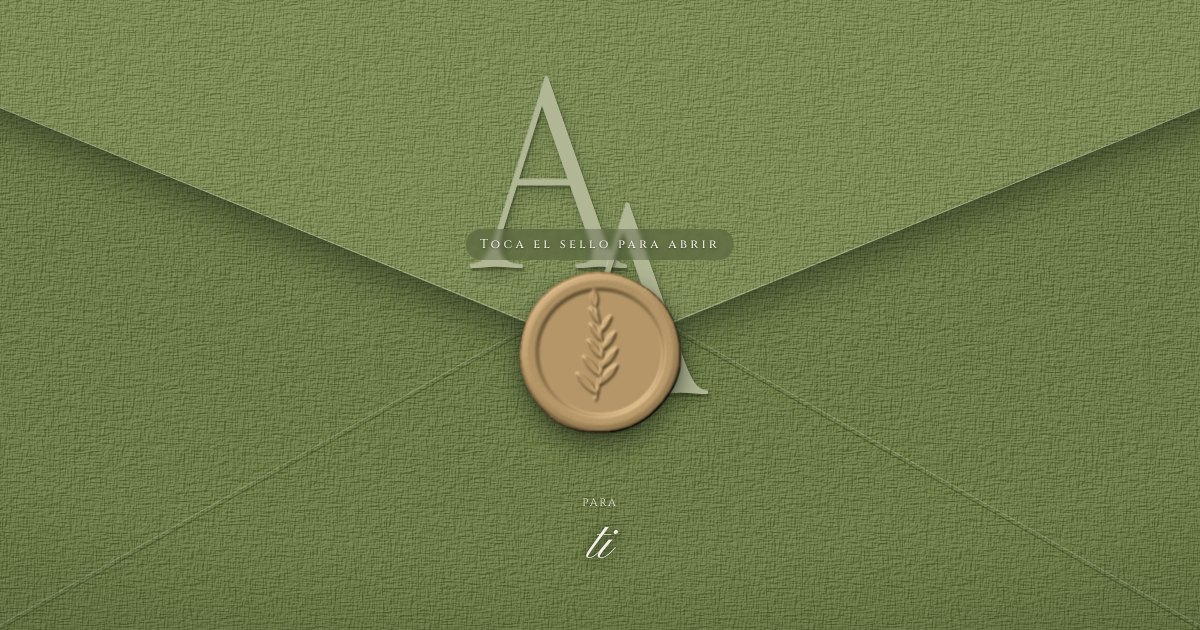
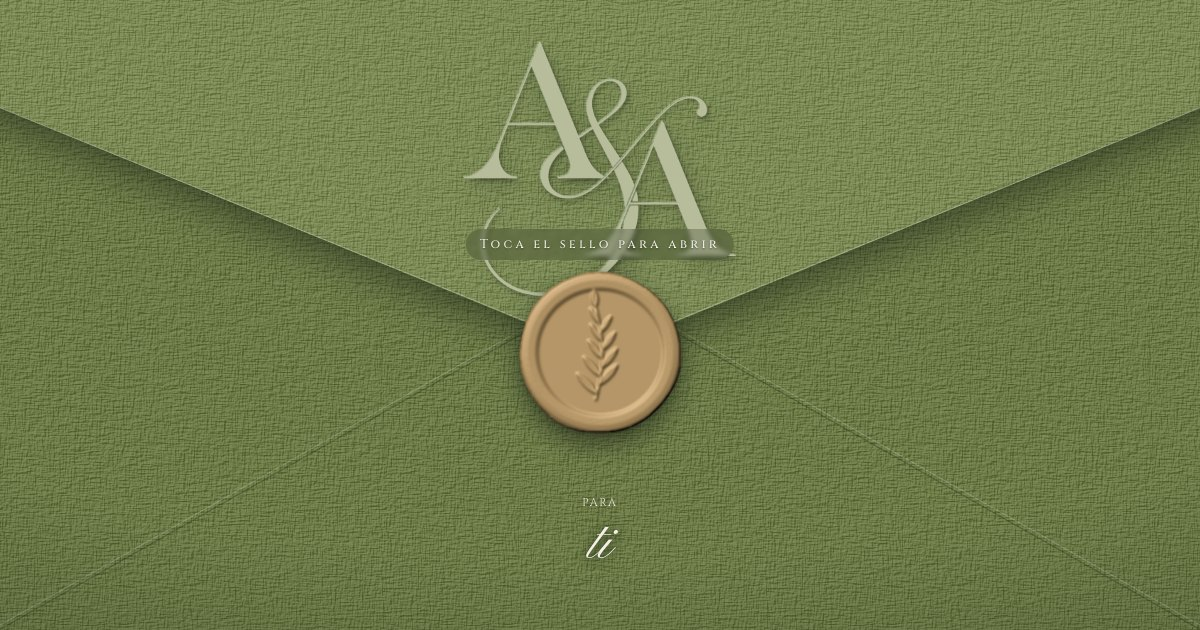
Invitación Ángeles y Alejandro: monograma A&A propio, novios de la referencia, itinerario vertical con dibujos (18:00–02:00) y regalos con lista de novios

diff --git a/public/inv/angeles-y-alejandro.html b/public/inv/angeles-y-alejandro.html
@@ -270,6 +270,7 @@
   .fc-fila span{font-family:var(--grabado);font-size:clamp(11px,3.2vw,14px);letter-spacing:.14em;line-height:1.35;padding:7px 0;border-top:.75px solid currentColor;border-bottom:.75px solid currentColor;opacity:.9}
   .fc-fila b{font-family:var(--grabado);font-weight:400;font-size:clamp(52px,14vw,68px);line-height:1;font-variant-numeric:lining-nums}
   .fc-novios{width:150px;height:150px;margin:4px 0 2px}
+  .fc-novios-img{width:min(190px,52vw);height:auto;margin:6px 0 4px;opacity:.92}
   .fc-que{letter-spacing:.2em;font-size:13px}
   .fc-lugar{margin:2px 0 8px;font-family:var(--palo);font-size:13px;letter-spacing:.1em}
   .fc-prepara{width:min(440px,96%);margin-top:-40px;padding-bottom:34px;z-index:3}
@@ -308,6 +309,27 @@
   #tela{position:fixed;inset:0;z-index:0;pointer-events:none;background:#f3f1ec url(/inv/texturas/tela.jpg) center/cover no-repeat}
   /* papel moteado tipo piedra para las tarjetas greige */
   .tarjeta.greige,.fc{background-color:#d8d2c3;background-image:url(/inv/texturas/papel.jpg)!important;background-size:512px 512px}
+</style>
+<style>
+  .monograma-sobre.mono-img{display:block;width:min(52vw,280px);height:auto;aspect-ratio:1.068;top:6%;font-size:16px;
+    filter:drop-shadow(-1px -1px 0 rgba(255,255,255,.3)) drop-shadow(2px 3px 2px rgba(25,32,16,.42)) drop-shadow(5px 9px 12px rgba(25,32,16,.25))}
+  .mono-img i,.mono-pie i{display:block;width:100%;height:100%;-webkit-mask:url(/inv/angeles-y-alejandro/monograma.png) center/contain no-repeat;mask:url(/inv/angeles-y-alejandro/monograma.png) center/contain no-repeat}
+  .mono-img i{background:color-mix(in srgb,var(--salvia-2) 50%,#f3efe2 50%)}
+  .mono-pie{width:150px;aspect-ratio:1.068;margin:0 auto}
+  .mono-pie i{background:var(--salvia-osc)}
+</style>
+<style>
+  .itin-tarjeta{padding:54px 18px 46px;display:flex;flex-direction:column;align-items:center;gap:26px}
+  .itin-lista{list-style:none;margin:0;padding:0;width:100%;display:flex;flex-direction:column;gap:26px;position:relative}
+  .itin-lista::before{content:"";position:absolute;left:calc(46% + 8px);top:14px;bottom:30px;width:1px;background:color-mix(in srgb,var(--salvia-osc) 55%,transparent)}
+  .itin-lista li{display:grid;grid-template-columns:46% 17px 1fr;align-items:center;column-gap:12px;text-align:left}
+  .itin-lista img{width:100%;max-width:170px;max-height:112px;object-fit:contain;justify-self:end}
+  .itin-punto{width:7px;height:7px;border-radius:50%;background:var(--salvia-osc);justify-self:center;position:relative;z-index:1}
+  .itin-lista time{display:block;font-family:"Cormorant Garamond",serif;font-weight:600;font-size:clamp(24px,6.6vw,30px);line-height:1.05;color:var(--salvia-osc);font-variant-numeric:lining-nums}
+  .itin-lista span{display:block;font-family:var(--grabado);font-size:clamp(11px,3.1vw,13.5px);letter-spacing:.16em;text-transform:uppercase;line-height:1.4;margin-top:3px}
+  .anima-itin .itin-lista li{opacity:0;transform:translateY(16px);transition:opacity .8s ease calc(var(--i) * .18s),transform .8s cubic-bezier(.2,.7,.2,1) calc(var(--i) * .18s)}
+  .anima-itin.visto .itin-lista li{opacity:1;transform:none}
+  @media (prefers-reduced-motion:reduce){.anima-itin .itin-lista li{opacity:1;transform:none}}
 </style>
 </head><body class="cerrada">
 <script>document.documentElement.classList.add("cerrada");</script>
@@ -459,7 +481,7 @@
   <div class="solapa-sombra"><div class="solapa" id="solapa"></div>
     <svg class="solapa-borde" viewBox="0 0 100 100" preserveAspectRatio="none" aria-hidden="true"><path d="M0 .2 L50 99.6 L100 .2" fill="none" stroke="rgba(255,255,255,.28)" stroke-width="1" vector-effect="non-scaling-stroke"/></svg>
   </div>
-  <div class="monograma-sobre" aria-hidden="true"><span class="d" id="mono-1">A</span><span class="c" id="mono-2">A</span></div>
+  <div class="monograma-sobre mono-img" aria-hidden="true"><i></i></div>
   <div class="toca">Toca el sello para abrir</div>
   <button class="sello-btn" id="abrir" aria-label="Abrir la invitación"><img class="sello-img" data-sello="crema" alt=""></button>
   <div class="para-sobre"><div class="cap">Para</div><b data-para>&nbsp;</b><div class="cap" id="para-con-sobre" hidden></div></div>
@@ -499,8 +521,8 @@
       <span class="sello-pega"><img class="sello-img" data-sello="crema" alt=""></span>
       <h2 class="titulo fc-titulo">Celebra con nosotros</h2>
       <svg class="fc-mes" viewBox="0 0 220 56" aria-hidden="true"><path id="fc-arco" d="M40 52 Q110 8 180 52" fill="none"/><text><textPath href="#fc-arco" startOffset="50%" text-anchor="middle">ENERO</textPath></text></svg>
-      <div class="fc-fila"><span>SÁBADO</span><b>16</b><span id="fc-hora">HORA POR<br>CONFIRMAR</span></div>
-      <svg class="icono-linea fc-novios" aria-hidden="true"><use href="#i-novios"/></svg>
+      <div class="fc-fila"><span>SÁBADO</span><b>16</b><span id="fc-hora">6:00 P.M.</span></div>
+      <img class="fc-novios-img" src="/inv/angeles-y-alejandro/novios.png" alt="" aria-hidden="true">
       <p class="cap fc-que">Ceremonia religiosa &amp; recepción</p>
       <p class="fc-lugar">Capilla Santa Cruz</p>
       <a class="boton" target="_blank" rel="noopener" href="https://www.google.com/maps/search/?api=1&amp;query=Capilla%20Santa%20Cruz%2C%20La%20Capilla%20115%2C%20Pudahuel"><svg aria-hidden="true"><use href="#i-ubicacion"/></svg>Ver mapa</a>
@@ -537,6 +559,20 @@
     <svg class="decor" data-ramo="calas" data-semilla="12" style="left:-34px;bottom:-26px;width:min(130px,30vw);height:250px" aria-hidden="true"></svg>
   </section>
 
+  <section class="itin-v" aria-labelledby="t-itin-v">
+    <article class="tarjeta crema itin-tarjeta revela">
+      <span class="filete" aria-hidden="true"></span>
+      <h2 class="titulo" id="t-itin-v">Itinerario</h2>
+      <ol class="itin-lista">
+        <li style="--i:0"><img src="/inv/angeles-y-alejandro/it-ceremonia.png" alt="" aria-hidden="true"><i class="itin-punto"></i><div><time>18:00</time><span>Ceremonia</span></div></li>
+        <li style="--i:1"><img src="/inv/angeles-y-alejandro/it-coctel.png" alt="" aria-hidden="true"><i class="itin-punto"></i><div><time>19:00</time><span>Cóctel de bienvenida</span></div></li>
+        <li style="--i:2"><img src="/inv/angeles-y-alejandro/it-baile.png" alt="" aria-hidden="true"><i class="itin-punto"></i><div><time>20:00</time><span>Primer baile</span></div></li>
+        <li style="--i:3"><img src="/inv/angeles-y-alejandro/it-cena.png" alt="" aria-hidden="true"><i class="itin-punto"></i><div><time>20:30</time><span>Cena</span></div></li>
+        <li style="--i:4"><img src="/inv/angeles-y-alejandro/it-fiesta.png" alt="" aria-hidden="true"><i class="itin-punto"></i><div><time>21:30</time><span>Fiesta</span></div></li>
+        <li style="--i:5"><img src="/inv/angeles-y-alejandro/it-fin.png" alt="" aria-hidden="true"><i class="itin-punto"></i><div><time>02:00</time><span>Fin de la celebración</span></div></li>
+      </ol>
+    </article>
+  </section>
   <section class="itinerario" id="itinerario" aria-labelledby="t-itin">
     <div class="cinta-sombra"><div class="cinta">
       <h2 id="t-itin">Itinerario</h2>
@@ -625,7 +661,7 @@
   </section>
 
   <footer>
-    <div class="mono" aria-hidden="true" id="pie-mono">D&amp;C</div>
+    <div class="mono mono-pie" aria-hidden="true" id="pie-mono"><i></i></div>
     <p class="cap" id="pie-nombres">Ángeles &amp; Alejandro</p>
     <p class="cap chica" id="pie-fecha">18 · 12 · 2026 · Lampa</p>
   </footer>
@@ -1200,10 +1236,18 @@ window.Grabado = (() => {
 
 
   // ═══ Invitación suelta (scripts/invitaciones/generar.mjs): datos escritos y confirmación por Google Forms ═══
-  const cfg = {"slug":"angeles-y-alejandro","nombre1":"Ángeles","nombre2":"Alejandro","fecha":"2027-01-16","hora":null,"ciudad":"Pudahuel","titulo":"¡Nos casamos!","mensaje":"Con la bendición de Dios y de nuestras familias, queremos que nos acompañes en el día en que unimos nuestras vidas.","frase":"El amor es paciente, es bondadoso. Todo lo disculpa, todo lo cree, todo lo espera, todo lo soporta.","fraseCita":"1 Corintios 13, 4-7","foto":null,"fotoTexto":"","lugarNombre":"Capilla Santa Cruz","direccion":"La Capilla 115, Pudahuel","comoLlegar":"Ceremonia religiosa","celebracion":"Recepción","celebracionLugar":"Doña Isabel 745, Lomas de Lo Aguirre, Pudahuel","celebracionNota":"","vestimenta":"Formal","vestimentaTexto":"Ellas: vestido largo o de cóctel. Ellos: traje y corbata.","vestimentaNota":"","regalos":"Tu presencia es nuestro mejor regalo.","regalosNota":"","limite":null,"programa":[],"paleta":["#6b7a45","#7b8a54","#4f5c2f","#333d1f"],"musicaArchivo":null,"musicaInicio":null,"google":{"accion":null,"campos":null}};
+  const cfg = {"slug":"angeles-y-alejandro","nombre1":"Ángeles","nombre2":"Alejandro","fecha":"2027-01-16","hora":"18:00","ciudad":"Pudahuel","titulo":"¡Nos casamos!","mensaje":"Con la bendición de Dios y de nuestras familias, queremos que nos acompañes en el día en que unimos nuestras vidas.","frase":"El amor es paciente, es bondadoso. Todo lo disculpa, todo lo cree, todo lo espera, todo lo soporta.","fraseCita":"1 Corintios 13, 4-7","foto":null,"fotoTexto":"","lugarNombre":"Capilla Santa Cruz","direccion":"La Capilla 115, Pudahuel","comoLlegar":"Ceremonia religiosa","celebracion":"Recepción","celebracionLugar":"Doña Isabel 745, Lomas de Lo Aguirre, Pudahuel","celebracionNota":"","vestimenta":"Formal","vestimentaTexto":"Ellas: vestido largo o de cóctel. Ellos: traje y corbata.","vestimentaNota":"","regalos":"El mejor regalo será compartir este día tan especial con ustedes.\n\nPero si desean hacernos un obsequio, pueden ayudarnos a cumplir otro de nuestros sueños: vivir una luna de miel inolvidable.\n\nConoce nuestra lista de regalos:","regalosNota":"","limite":null,"programa":[],"paleta":["#6b7a45","#7b8a54","#4f5c2f","#333d1f"],"musicaArchivo":null,"musicaInicio":null,"google":{"accion":null,"campos":null},"monogramaImagen":"/inv/angeles-y-alejandro/monograma.png","noviosImagen":"/inv/angeles-y-alejandro/novios.png","itinerarioVertical":[{"hora":"18:00","actividad":"Ceremonia","imagen":"it-ceremonia"},{"hora":"19:00","actividad":"Cóctel de bienvenida","imagen":"it-coctel"},{"hora":"20:00","actividad":"Primer baile","imagen":"it-baile"},{"hora":"20:30","actividad":"Cena","imagen":"it-cena"},{"hora":"21:30","actividad":"Fiesta","imagen":"it-fiesta"},{"hora":"02:00","actividad":"Fin de la celebración","imagen":"it-fin"}],"regalosLink":"https://milistadenovios.cl/lista/angelesyalejandro","regalosBoton":"Ver lista de regalos"};
   P = personalizar({ ...cfg, paleta: null }, false);   // los colores ya vienen puestos arriba (window.__PALETA)
   const I1 = "A", I2 = "A";
-  txt("#mono-1", I1); txt("#mono-2", I2); txt("#pie-mono", I1 + "&" + I2);
+  txt("#mono-1", I1); txt("#mono-2", I2);
+  if (cfg.monogramaImagen) $("#pie-mono").innerHTML = "<i></i>"; else txt("#pie-mono", I1 + "&" + I2);
+  // Itinerario vertical: los hitos aparecen de a uno al llegar
+  const iv = document.querySelector(".itin-v");
+  if (iv && "IntersectionObserver" in window) { iv.classList.add("anima-itin"); new IntersectionObserver((es, o) => es.forEach((e) => { if (e.isIntersecting) { iv.classList.add("visto"); o.disconnect(); } }), { threshold: .2 }).observe(iv); }
+  // Regalos: texto en párrafos y botón a la lista
+  if (cfg.regalos) { const t = $("#regalos-texto"); t.style.whiteSpace = "pre-line"; t.textContent = cfg.regalos; }
+  if (cfg.regalosLink) { const a = document.createElement("a"); a.className = "boton"; a.href = cfg.regalosLink; a.target = "_blank"; a.rel = "noopener"; a.style.marginTop = "14px";
+    a.innerHTML = '<svg aria-hidden="true"><use href="#i-regalo"/></svg>' + (cfg.regalosBoton || "Ver lista de regalos"); $("#regalos-texto").after(a); }
   // Nombres largos (ALEJANDRO): se achican hasta caber dentro del filete de la tarjeta, en cualquier pantalla
   const ajustarNombres = () => {
     const h = $("#nombres"); if (!h) return; h.style.fontSize = "";
